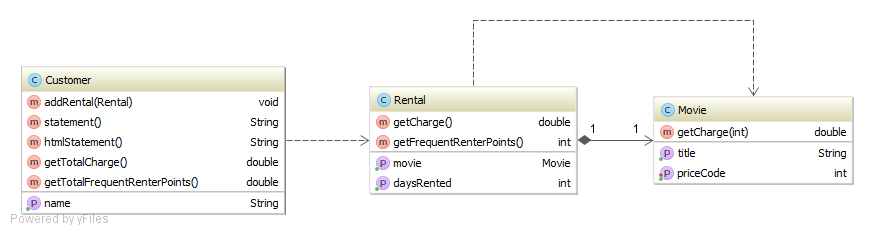
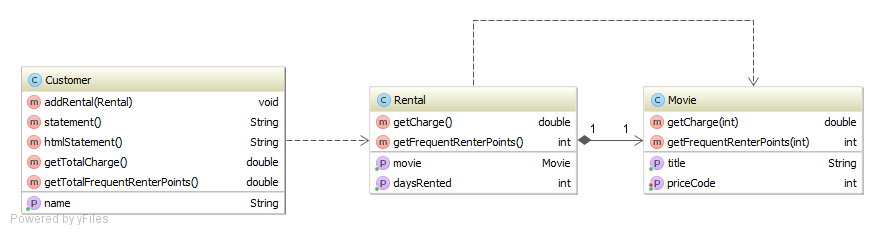
Step 6.2: Extract method Movie.getFrequentRenterPoints(int daysRented).

diff --git a/src/Rental.java b/src/Rental.java
@@ -20,11 +20,6 @@ class Rental {
     }
 
     int getFrequentRenterPoints() {
-        int frequentRenterPoints = 0;
-        frequentRenterPoints++;
-        // add bonus for a two day new release rental
-        if ((getMovie().getPriceCode() == Movie.NEW_RELEASE) && getDaysRented() > 1)
-            frequentRenterPoints++;
-        return frequentRenterPoints;
+        return getMovie().getFrequentRenterPoints(getDaysRented());
     }
 }

diff --git a/src/Movie.java b/src/Movie.java
@@ -41,4 +41,13 @@ public class Movie {
         }
         return result;
     }
+
+    int getFrequentRenterPoints(int daysRented) {
+        int frequentRenterPoints = 0;
+        frequentRenterPoints++;
+        // add bonus for a two day new release rental
+        if ((getPriceCode() == NEW_RELEASE) && daysRented > 1)
+            frequentRenterPoints++;
+        return frequentRenterPoints;
+    }
 }
